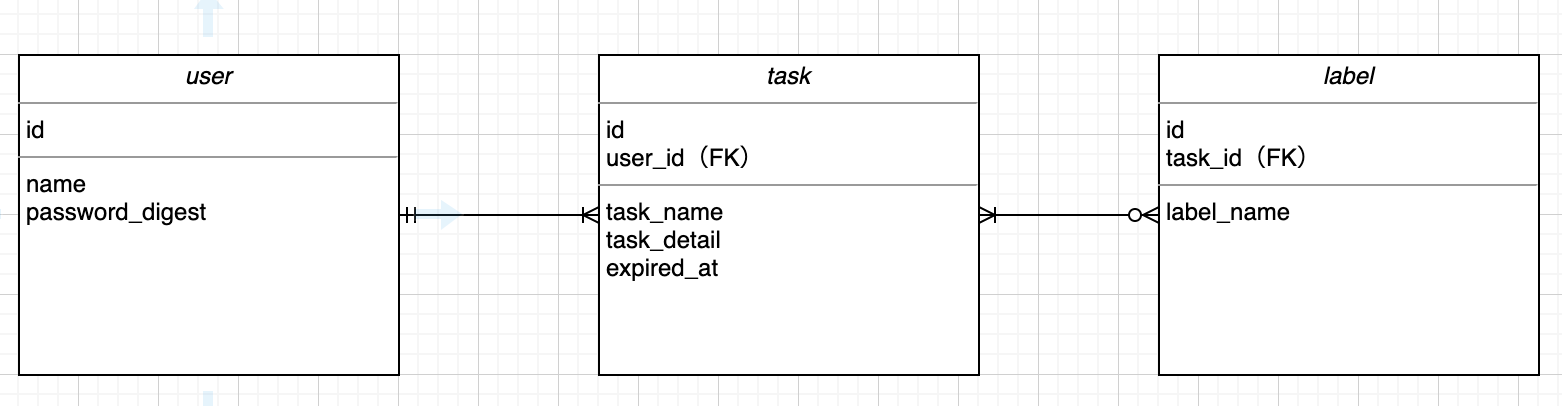
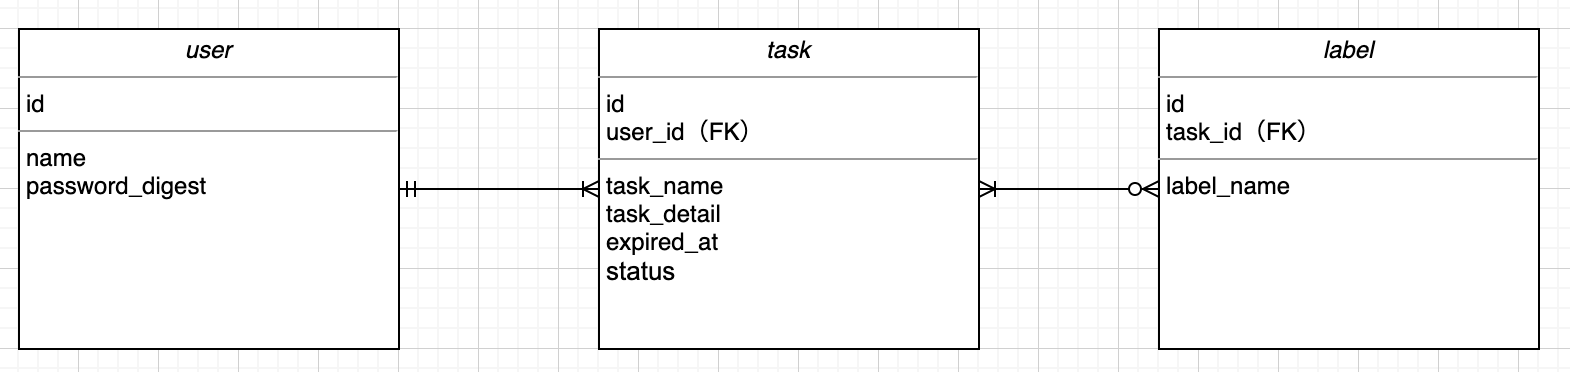
タスクにステータス（status）カラムを追加するので、ER図とREADME.mdにその旨を追記する

diff --git a/README.md b/README.md
@@ -14,13 +14,7 @@
 | task_detail | text |  
 | user_id | integer |
 | expired_at | datetime |
-
-| Taskテーブル ||
-| ---- | ---- |
-| カラム名 | データ型 |
-| id | integer |
-| task_detail | text |  
-| user_id | integer |
+| status | string |
 
 | Labelテーブル ||
 | ---- | ---- |
